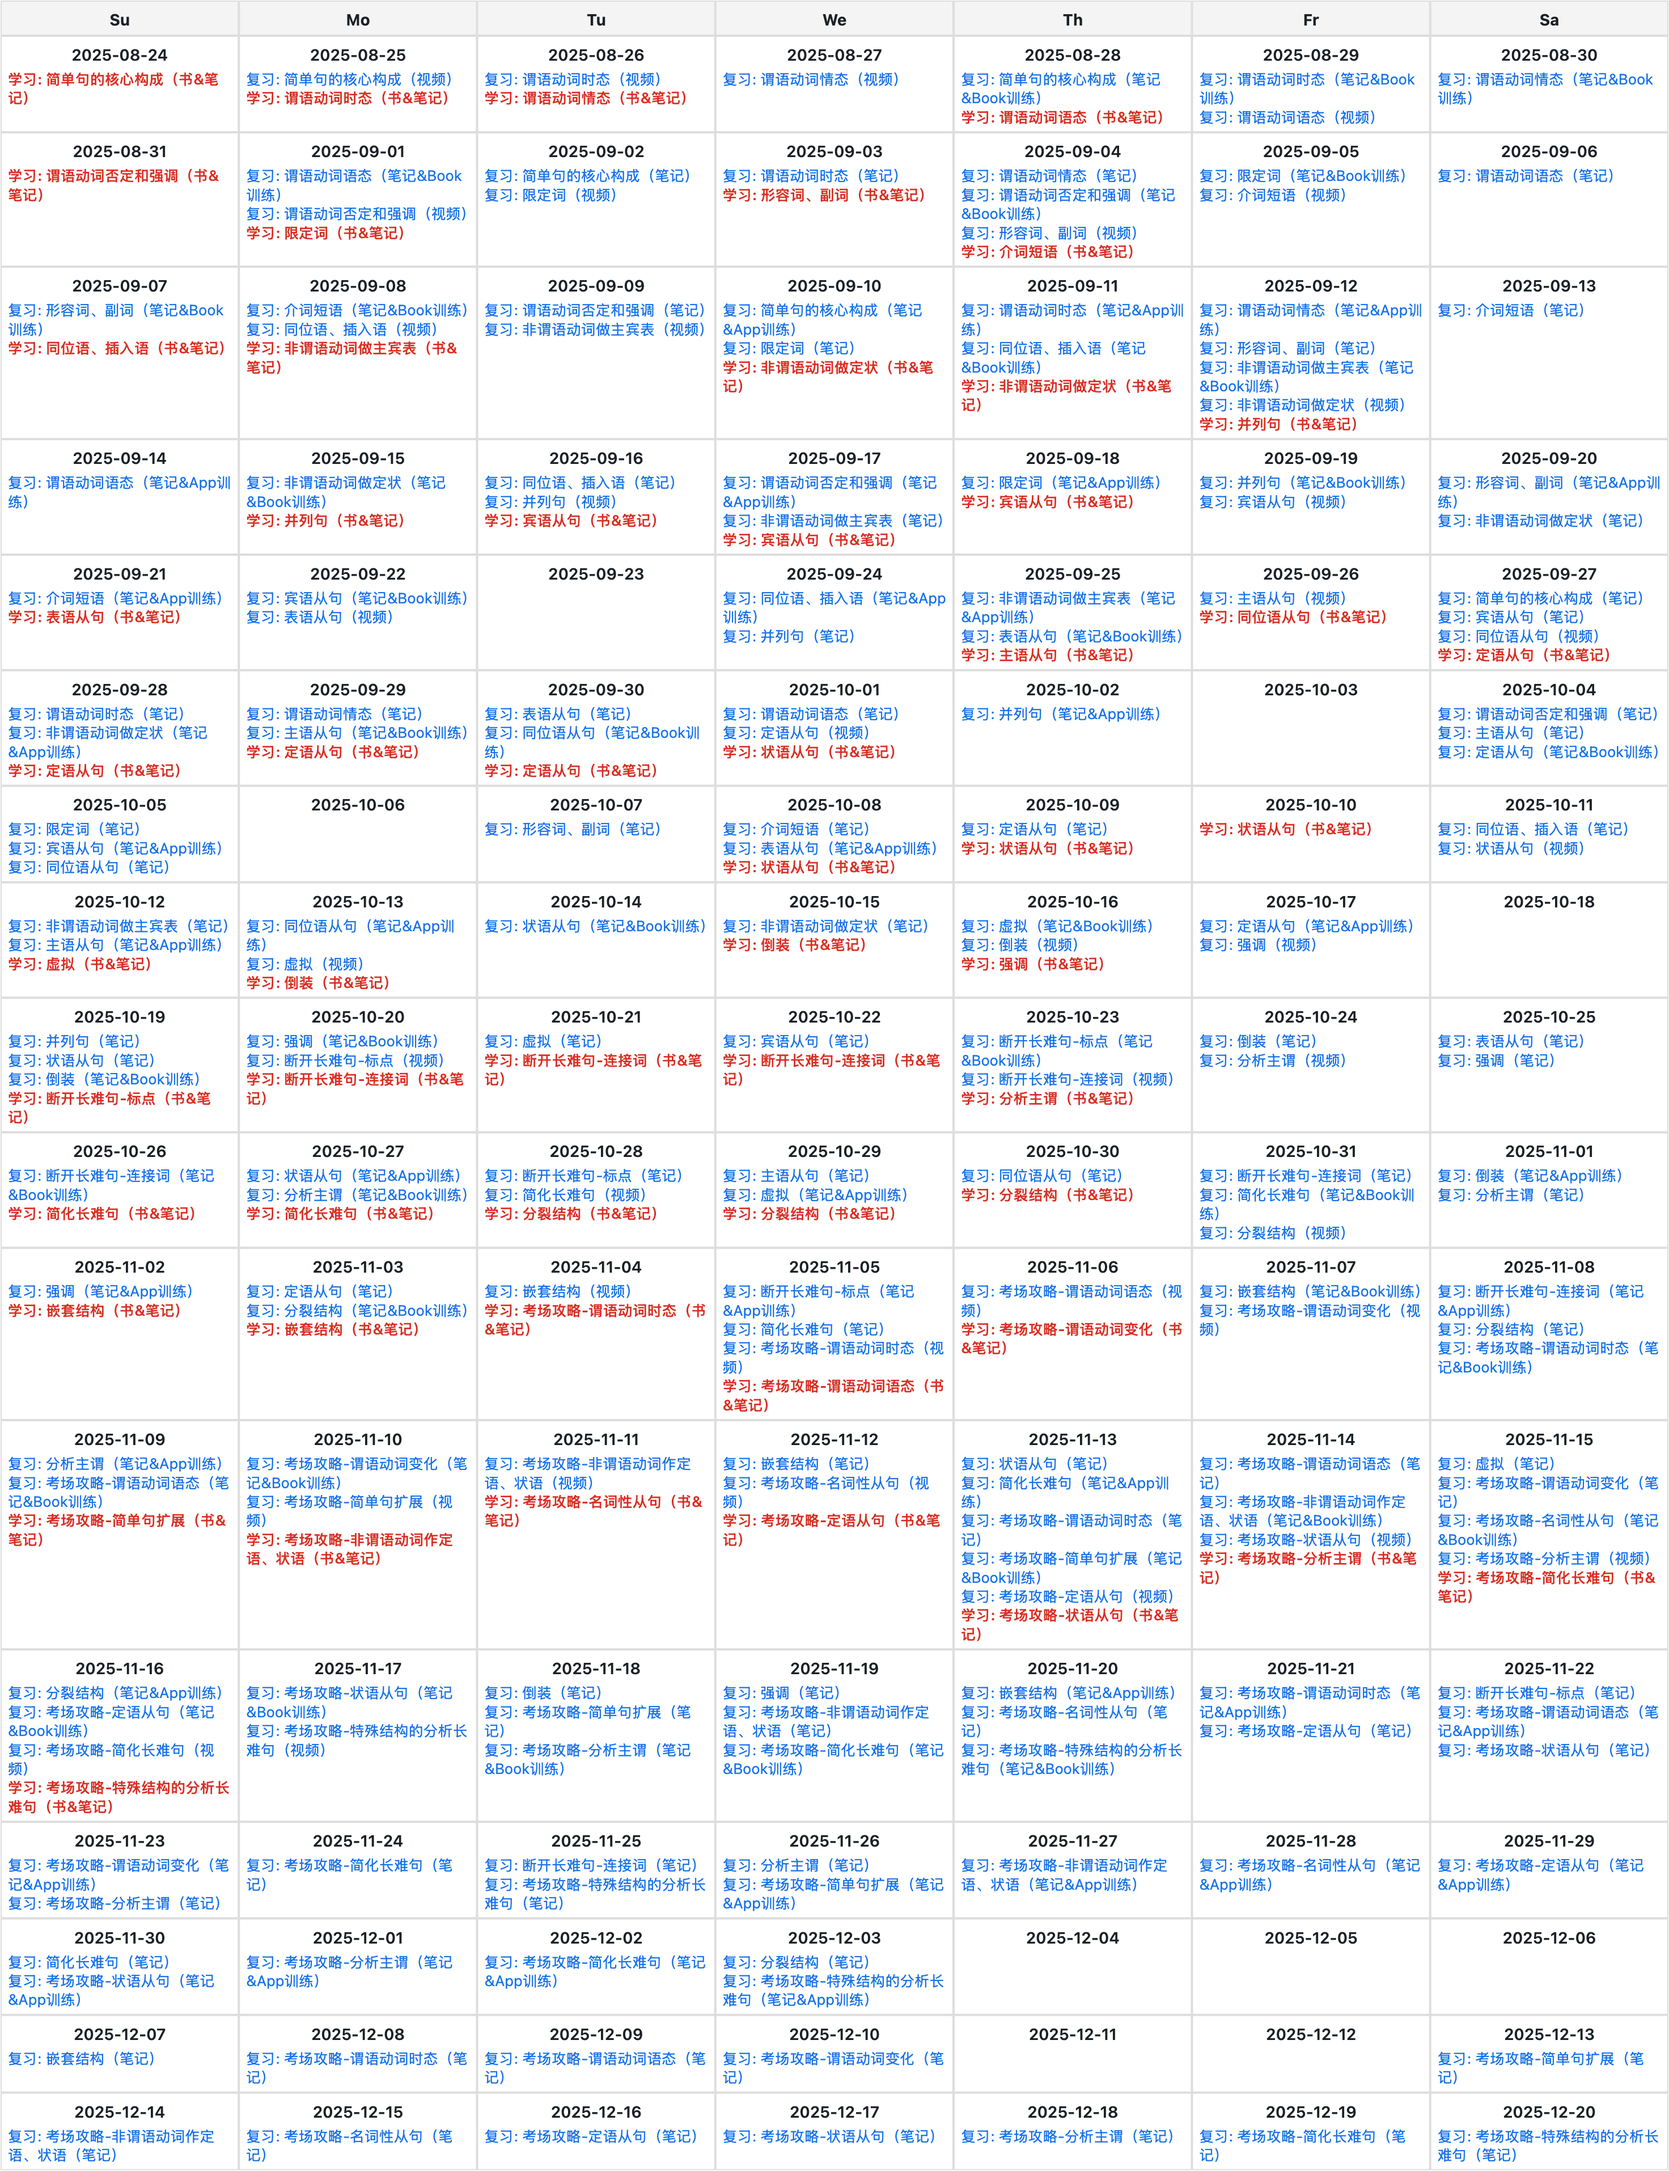
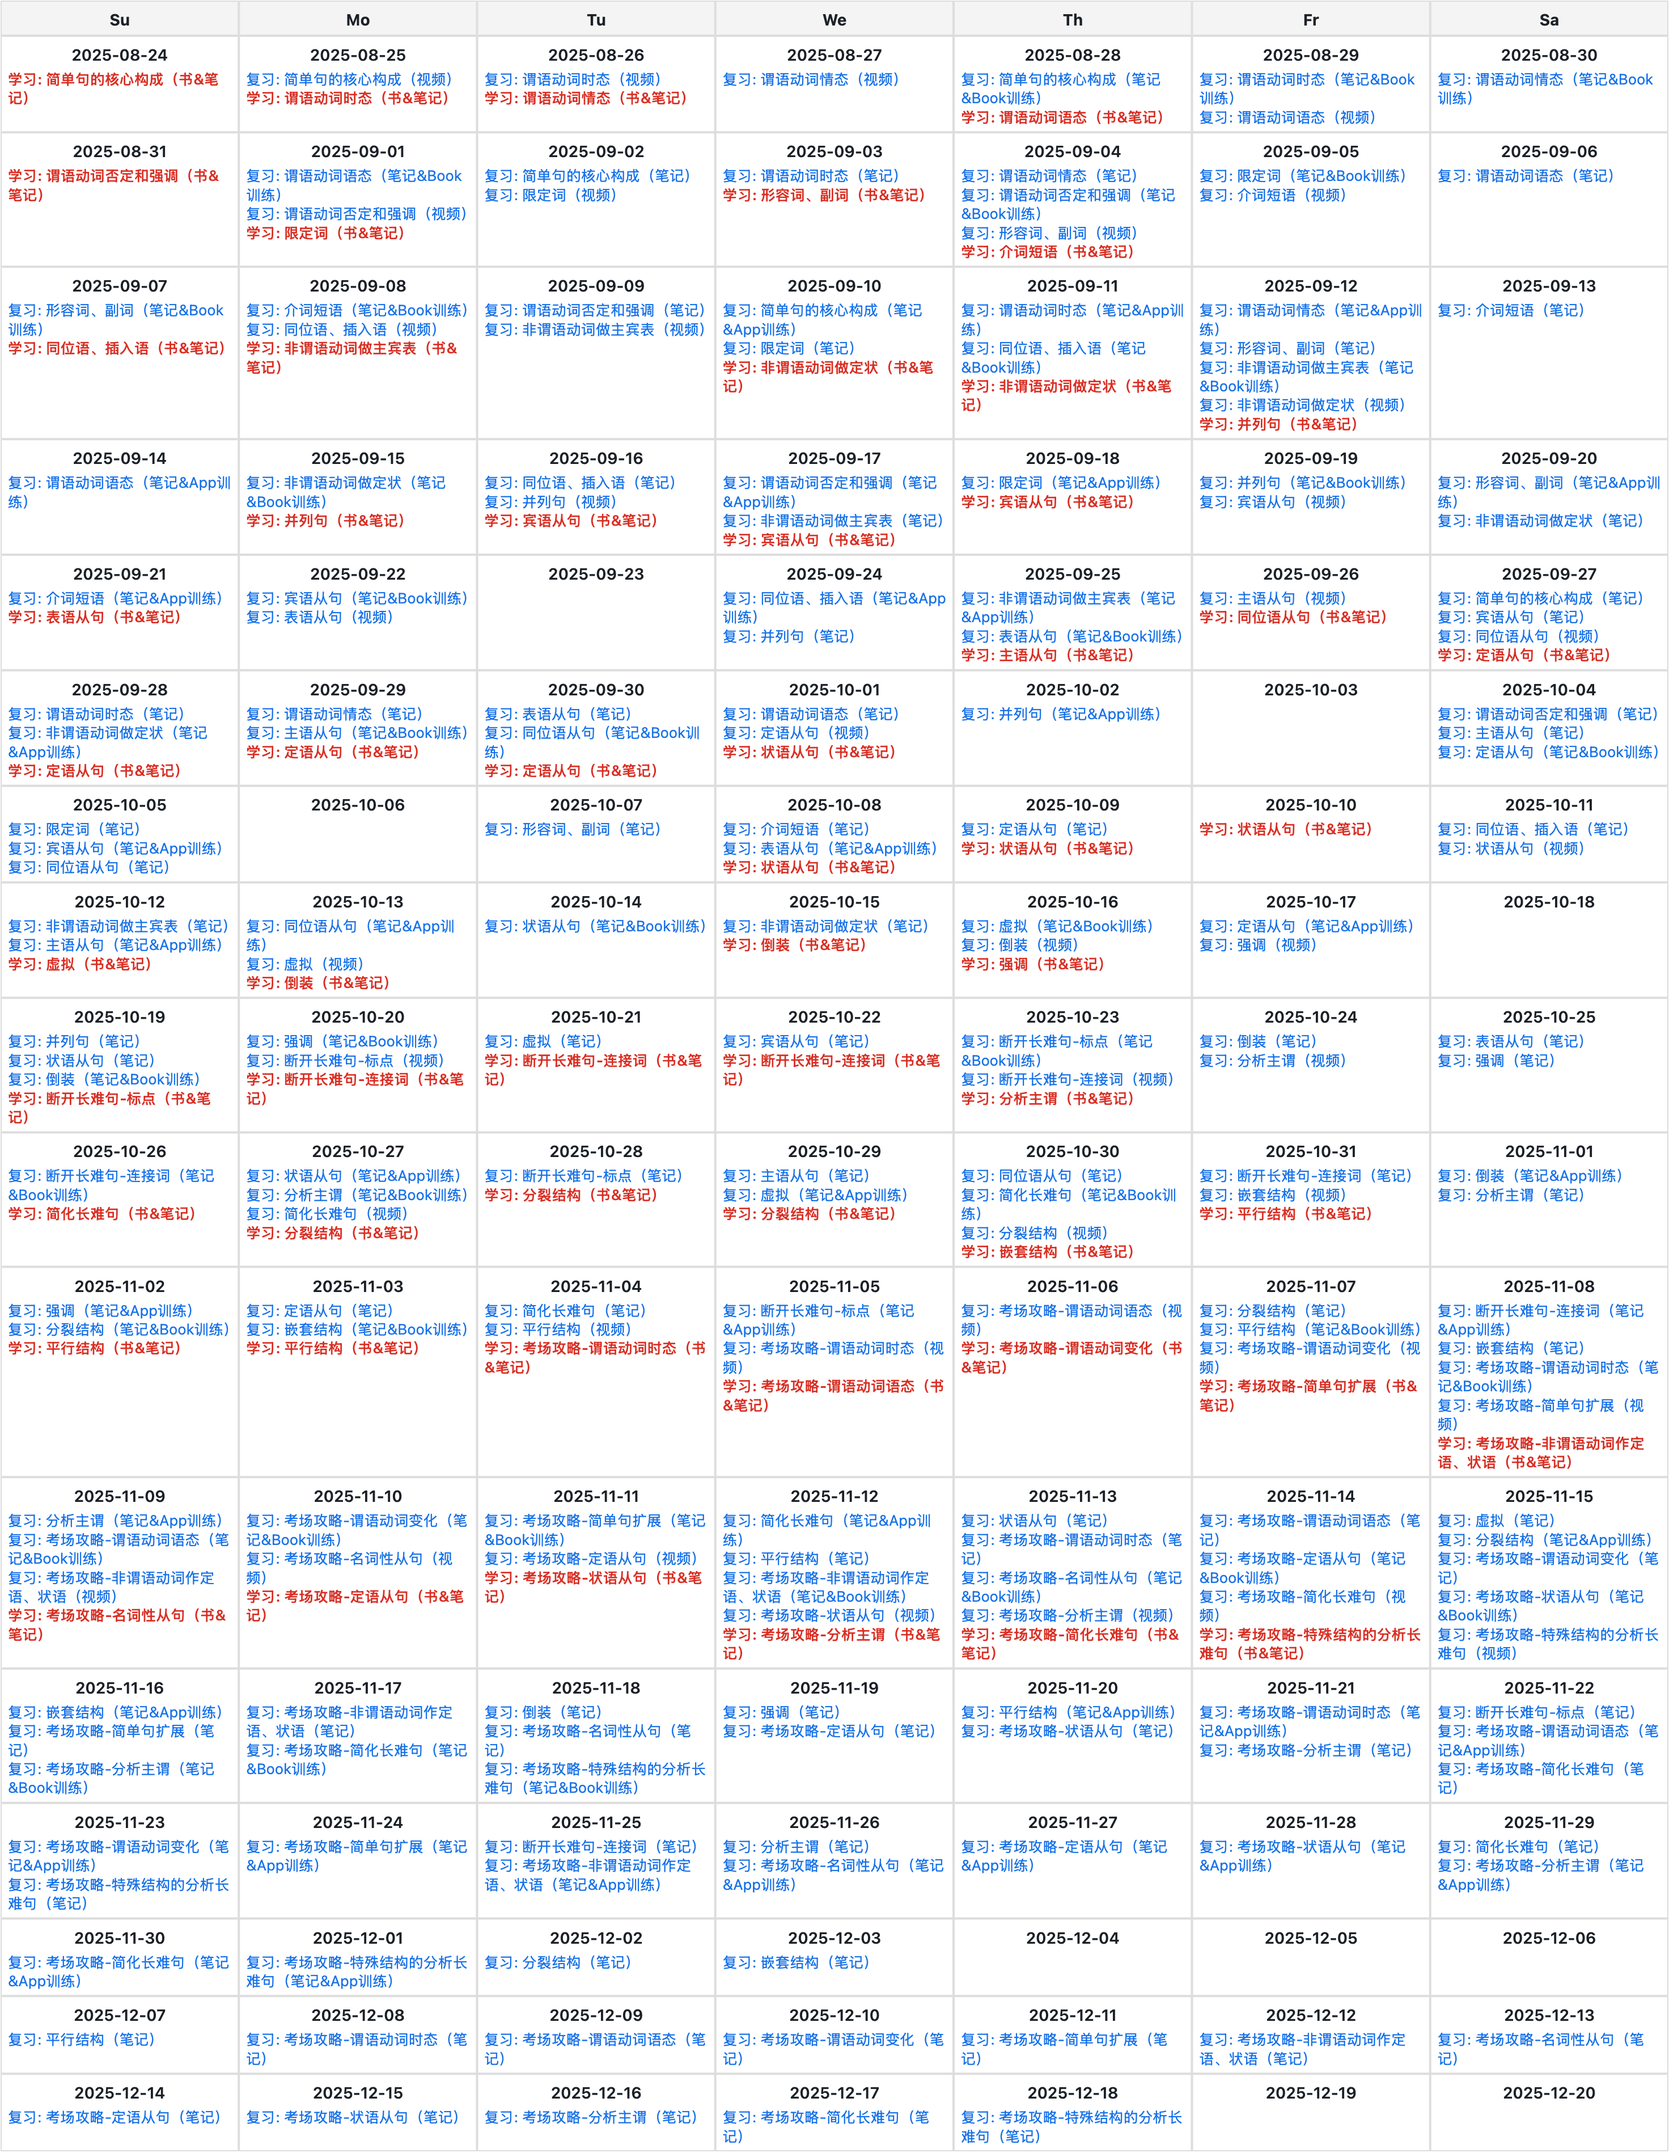
feat: add simplify complex sentence

diff --git a/utils/html/generate-forgetting-curve-with-task-duration.html b/utils/html/generate-forgetting-curve-with-task-duration.html
@@ -196,9 +196,10 @@
         {name: '断开长难句-标点', duration: 1},
         {name: '断开长难句-连接词', duration: 3},
         {name: '分析主谓', duration: 1},
-        {name: '简化长难句', duration: 2},
+        {name: '简化长难句', duration: 1},
         {name: '分裂结构', duration: 3},
-        {name: '嵌套结构', duration: 2},
+        {name: '嵌套结构', duration: 1},
+        {name: '平行结构', duration: 3},
         {name: '考场攻略-谓语动词时态', duration: 1},
         {name: '考场攻略-谓语动词语态', duration: 1},
         {name: '考场攻略-谓语动词变化', duration: 1},
@@ -215,7 +216,7 @@
         label: '笔记',
         duration: 1
       }, {label: '笔记&App训练', duration: 1}, {label: '笔记', duration: 1}],
-      restDays: '2025-08-27,2025-08-29,2025-08-30,2025-09-02,2025-09-05,2025-09-06,2025-09-09,2025-09-13,2025-09-14,2025-09-19,2025-09-20,2025-09-22,2025-09-23,2025-09-24,2025-10-02,2025-10-03,2025-10-04,2025-10-05,2025-10-06,2025-10-07,2025-10-11,2025-10-17,2025-10-18,2025-10-24,2025-10-25,2025-10-31,2025-11-01,2025-11-07,2025-11-08'
+      restDays: '2025-08-27,2025-08-29,2025-08-30,2025-09-02,2025-09-05,2025-09-06,2025-09-09,2025-09-13,2025-09-14,2025-09-19,2025-09-20,2025-09-22,2025-09-23,2025-09-24,2025-10-02,2025-10-03,2025-10-04,2025-10-05,2025-10-06,2025-10-07,2025-10-11,2025-10-14,2025-10-17,2025-10-18,2025-10-24,2025-10-25,2025-11-01'
     },
     linearAlgebra: {
       startDate: '2025-08-11',
@@ -478,7 +479,7 @@
     }
     html2canvas(calendarDiv).then(canvas => {
       const link = document.createElement('a');
-      link.download = '学习计划.png';
+      link.download = 'plan.png';
       link.href = canvas.toDataURL('image/png');
       link.click();
     });

diff --git a/english/grammar/analyze-complex-sentence/basic-structure/simplify-complex-sentence.md b/english/grammar/analyze-complex-sentence/basic-structure/simplify-complex-sentence.md
@@ -1,3 +1,32 @@
 # Basic Structure
 
 ## 简化长难句
+
+- 有些简单句会有很多修饰限定、补充说明的扩展成分，因此去掉扩展成分（即非核心成分），找到简单句核心才能看懂
+- 简化句子方法：简单句的核心成分要保留，先看；扩展（非核心）成分，可以后看
+- 简化句子是为了更方便快捷地看懂长难句，而不是要简化到最精简
+- 去掉句子非核心的扩展成分时，一定要注意其完整性
+    - Case: 介词短语不能只去掉介词，要把它后面接的宾语（名词、代词、动名词）一起去掉
+    - 非谓语动词同理，不能只去掉 doing、done、to do，如果是及物动词就要后接宾语，如果有修饰的形容词、副词和介词短语，都要一起去掉
+
+### Example
+
+- During the late 1990s, national spending on social sciences and the humanities as a percentage of all research and
+  development funds--including government, higher education, non-profit and corporate--varied from around 4% to 25%...
+- A new study published in the journal Child Development, by Eveline Crone of the university of Leiden and colleagues,
+  suggests that the positive and negative sides of teenagers go hand in hand.
+- Also, some research suggests that the explanation for rising rates of mortality, mental-health problems, and addiction
+  among poorly-educated, middle-aged people is shortage of well-paid jobs.
+- As much of Mexico City shut down at the height of a panic, cases began to crop up in New York City, the southwestern
+  United States and around the world.
+- When people in developing countries worry about migration, they are usually concerned at the prospect of their best
+  and brightest departure to Silicon Valley or to hospitals and universities in the developed world.
+- A string of accidents, including the partial collapse of a cooling tower in 2007 and the discovery of an underground
+  pipe system leakage, raised serious questions about both Vermont Yankee's safety and Entergy's management-especially
+  after the company made misleading statements about the pipe.
+
+### Words
+
+- hand in hand
+    - 联合地；手拉手地
+  
